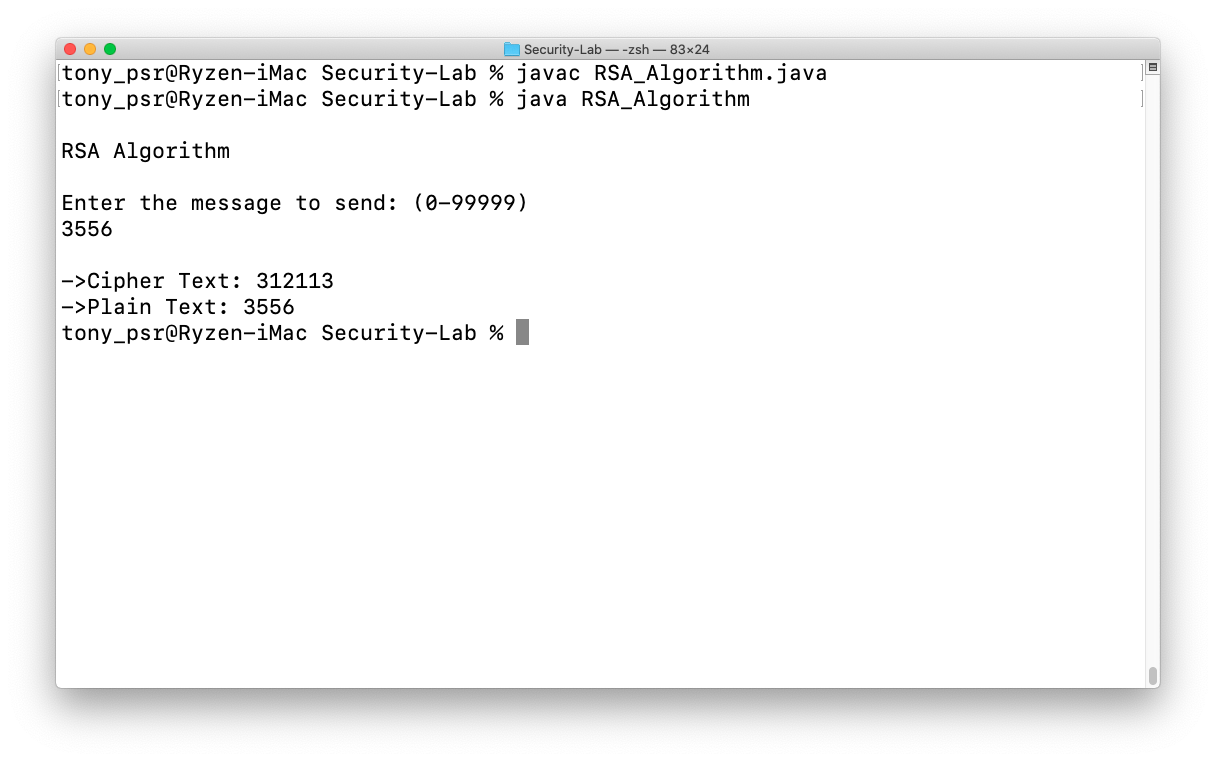
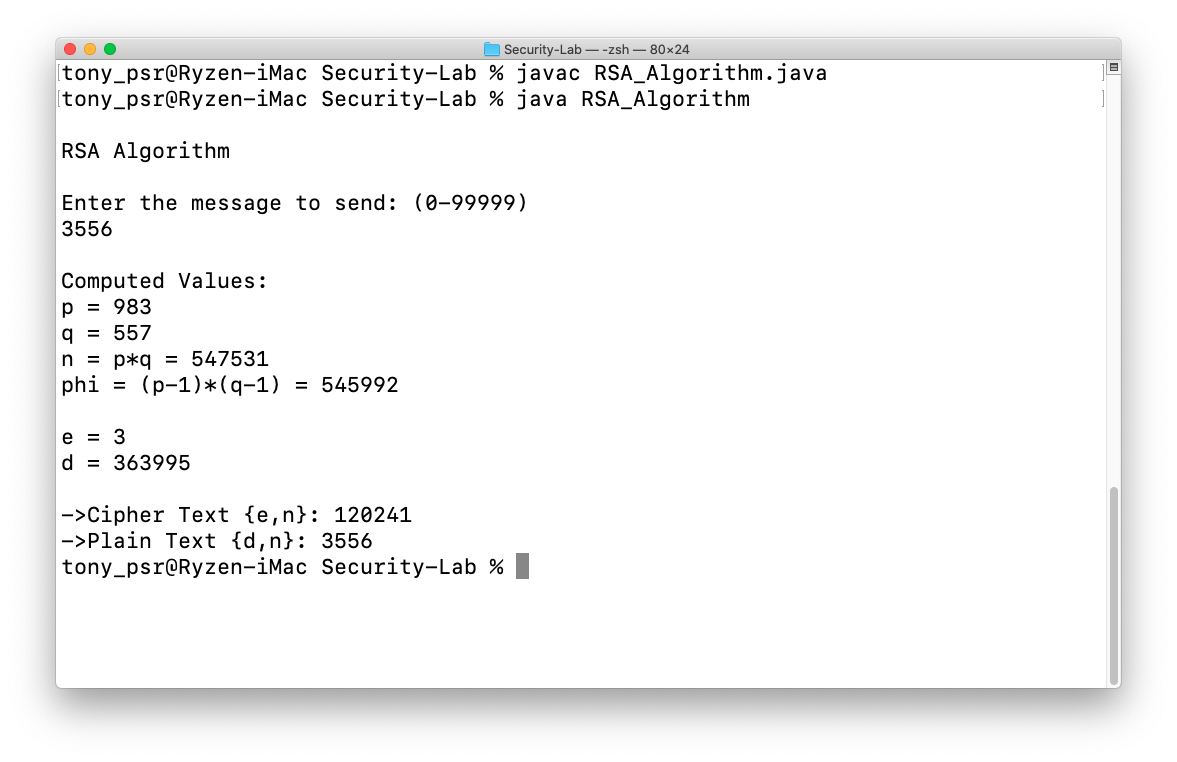
Improved RSA Algorithm format

diff --git a/src/com/company/tonypsr/cryptographic_algorithms/RSA_Algorithm.java b/src/com/company/tonypsr/cryptographic_algorithms/RSA_Algorithm.java
@@ -66,6 +66,10 @@ public class RSA_Algorithm {
         // lower bound 98
         int p = generateNthPrime(rand.nextInt(100) + 99);
         int q = generateNthPrime(rand.nextInt(100) + 98);
+        // make sure p and q are not the same
+        while(p == q){
+            q = generateNthPrime(rand.nextInt(100) + 98);
+        }
 
         //STEP 2
         long n = p * q;
@@ -94,12 +98,23 @@ public class RSA_Algorithm {
 
         System.out.println();
 
+        System.out.println("Computed Values:");
+        System.out.println("p = " + p);
+        System.out.println("q = " + q);
+        System.out.println("n = p*q = " + n);
+        System.out.println("phi = (p-1)*(q-1) = " + phi);
+        System.out.println();
+        System.out.println("e = " + e);
+        System.out.println("d = " + d);
+
+        System.out.println();
+
         // encryption {e,n}
         long cipherText = findExponentialModulo(plainText, e, n);
-        System.out.println("->Cipher Text: " + cipherText);
+        System.out.println("->Cipher Text {e,n}: " + cipherText);
 
         // decryption {d,n}
         long m = findExponentialModulo(cipherText, d, n);
-        System.out.println("->Plain Text: " + m);
+        System.out.println("->Plain Text {d,n}: " + m);
     }
 }
